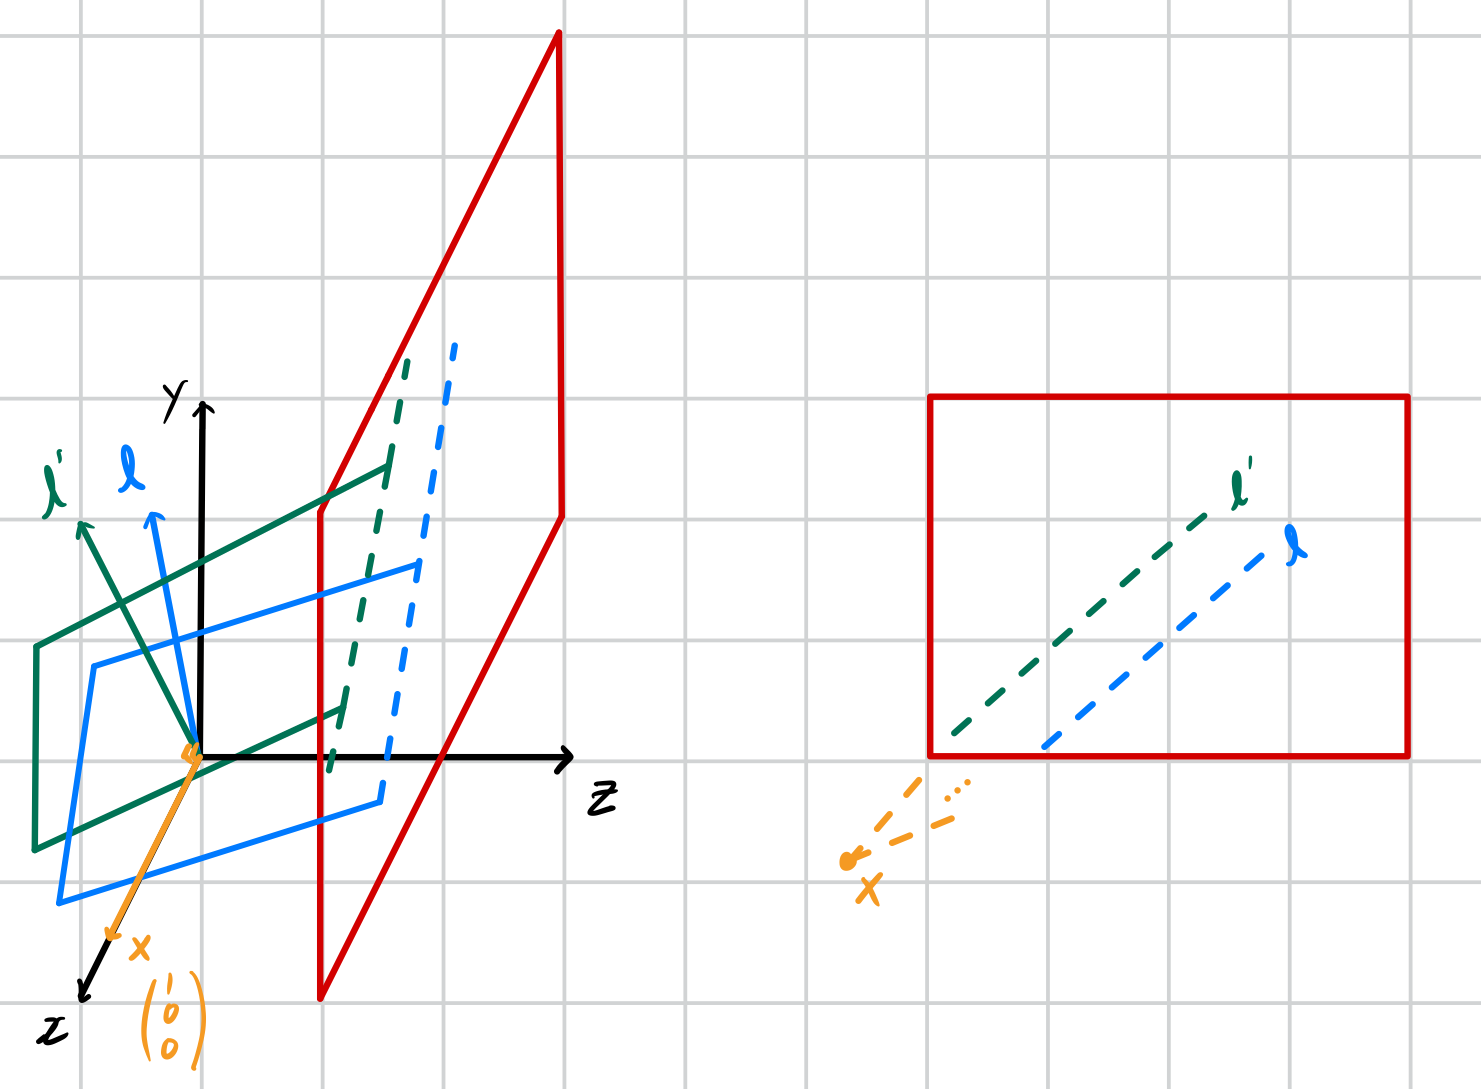
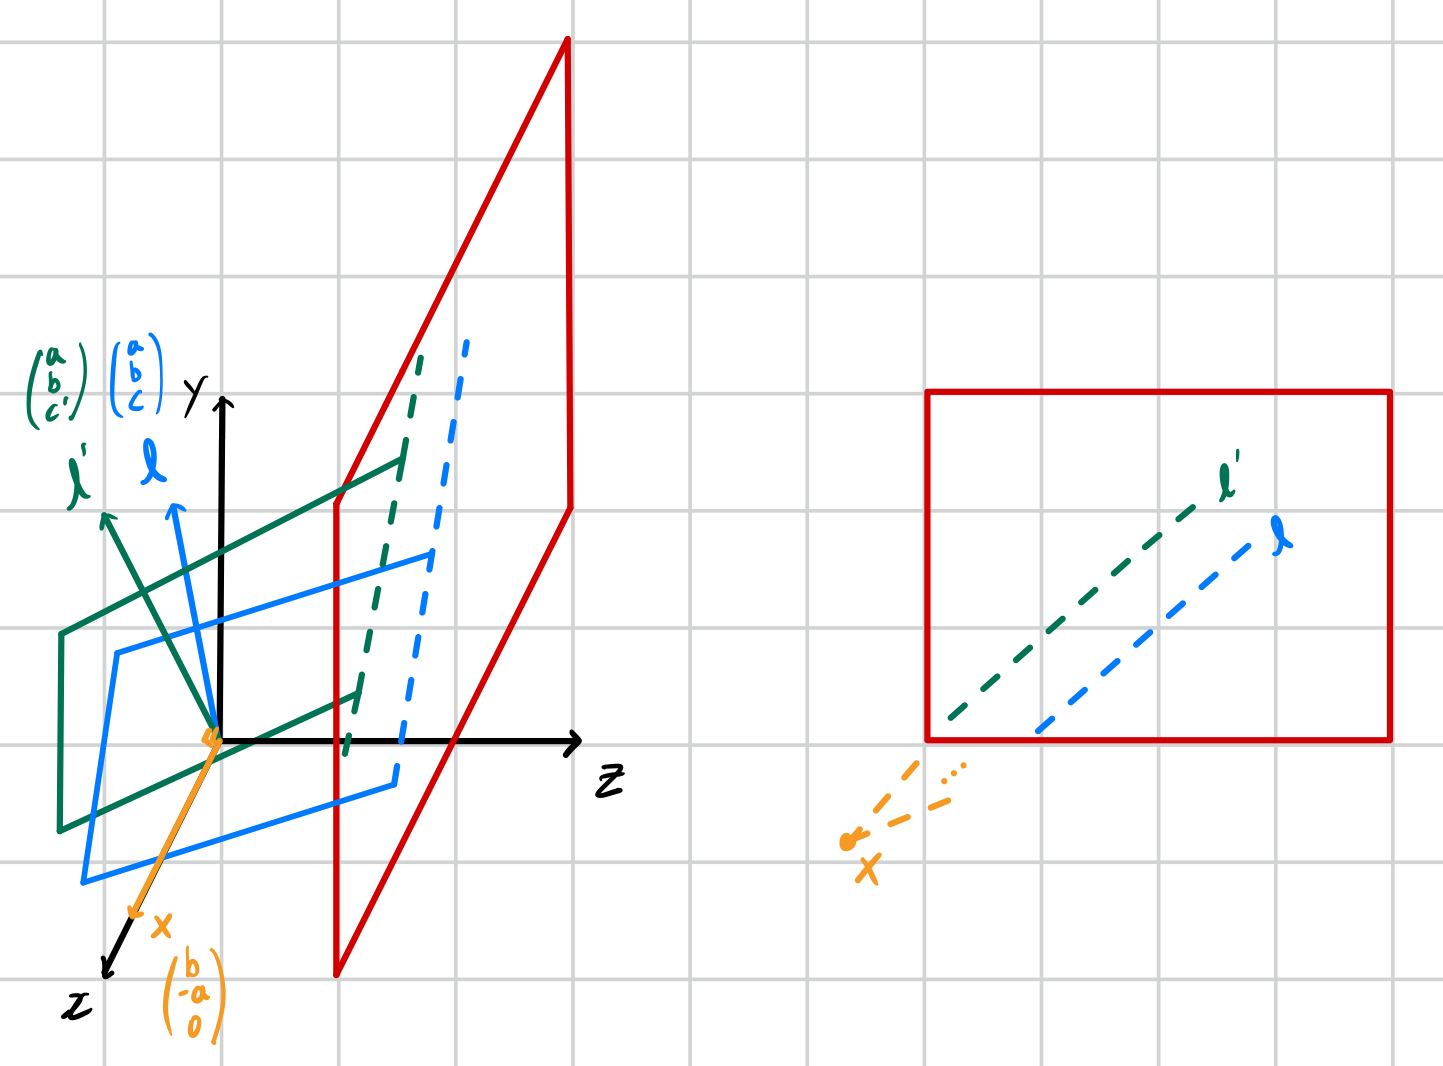
upate MVG

diff --git a/content/Machine Learning/Mathematical Foundation/Multiple View Geometry/2. Projective Geometry and Transformations of 2D.md b/content/Machine Learning/Mathematical Foundation/Multiple View Geometry/2. Projective Geometry and Transformations of 2D.md
@@ -49,6 +49,8 @@ $$
 이를 $\mathbb R^2$ 로 표현하면 $(x_1/x_3, x_2/x_3)^T$ 이고, \
 이를 projective plane $\mathbb P^2$ 로 표현하면 $(x_1/x_3, x_2/x_3, 1)^T$ 와 같다.
 
+> **Result 2.1** The point $\mathbf x$ lies on the line $\mathbf l$ if and only if $\mathbf x^T \mathbf l = 0$
+
 > [!Tips] Geometric analysis
 > Point와 line을 기하학적으로 해석해보면,
 > - Point $\mathbf x$ : 원점과 $\mathbf x$ 를 지나는 직선과 $z=1$ 의 intersection point.
@@ -56,8 +58,6 @@ $$
 > 
 > 	![[2.0.png|width500]]
 
-
-> **Result 2.1** The point $\mathbf x$ lies on the line $\mathbf l$ if and only if $\mathbf x^T \mathbf l = 0$
 
 **Intersection of lines** \
 Homogeneous coordinate의 두 line $\mathbf l = (a,b,c)^T$ 와 $\mathbf l' = (a',b',c')^T$ 의 intersection은 cross product로 구할 수 있다.
@@ -82,12 +82,87 @@ $c'-c$는 scale factor, scalar이므로 제외하고 생각해보면, point는 $
 이러한 관찰은 parallel line이 infinite point에서 만난다는 생각과 일치한다.
 
 이 point는 $z=0$ 평면상에 있는 point로 표현할 수 있다. \
-Homogeneous coordinate에서는 이 point를 "**ideal point**"라고 한다. 
-![[2.3.png|width500]]
+Homogeneous coordinate에서는 이 point를 "**ideal point**" 혹은 "**line at infinity**"라고 한다. 
 
+![[2.3.png|width500]] \
+서로 평행한 두 line의 vector를 xy평면에 projection 시키면, 한 직선인 것 처럼 보일 것이고, \
+ideal point $\mathbf x$ 는 projective plane의 line의 방향과 일치할 것이다. \
+![[2.4.png|width200]]
 
 **Ideal points and the line at infinity** \
-.
+위의 결과에 따라, ideal point는 $(x_1, x_2, 0)^T$ 으로 쓸 수 있다. \
+그렇다면, 이 point들을 모두 가지는 single line이 가지고 있다고 하면, $(0,0,1)(x_1, x_2, 0)^T=0$ 이므로,
+line vector가 $(0, 0, 1)^T$ 인 line이 될 것이다. \
+이 line $\mathbf l_\infty = (0, 0, 1)^T$ 를 "**line at infinity**"라고 한다.
+
+Line $\mathbf l=(a,b,c)^T$ 와 $\mathbf l_\infty=(0,0,1)^T$ 의 intersection을 cross product하여 구해보면, \
+ideal point $(b, -a, 0)^T$ 가 된다. \
+이는 모든 line과 line at infinity가 만나는 point는 ideal point가 되며, \
+ideal point는 line의 direction을 나타낸다는 것을 의미한다.
+
+Ideal point들의 집합을 line at infinity라고 볼 수 있으므로, \
+line at infinity는 projective plane 안의 line들의 direction들의 집합이라고 볼 수 있다. \
+![[2.5.png|width300]]
+
+**A model for the projective plane** \
+Projective plane의 모델에 대해 알기 쉽게 생각해보자.
+
+$\mathbb P^2$ 는 $\mathbb R^3$ 상의 origin을 지나는 ray의 집합으로 볼 수 있다.
+이 ray는 $\mathbb P^2$ 의 single point로 볼 수 있으며, ray와 $z=1$ 과의 intersection point일 것이다.
+이러한 관점에서, $\mathbb P^2$ 에서의 line은 origin을 지나는 한 plane이라고 볼 수 있다.
+이 plane과 $z=1$ 과의 line of intersection이 line을 의미한다. \
+![[2.6.png]]
+
+**Duality** \
+Point와 line의 역할이 서로 바뀌어도, 그들의 성질에 관한 명제들이 서로 대칭적으로 성립함을 이미 눈치챘을 것이다. \
+특히, 기본적인 incidence equation $\mathbf l^T\mathbf x=0$ 에서 line과 point의 위치를 바꾸어도 식이 성립하는데, \
+$\mathbf l^T\mathbf x=0$ 이 $\mathbf x^T\mathbf l=0$ 과 같으므로 line과 point의 위치가 바뀐 셈이다. \
+(기하학에서 “incidence”란 점과 직선이 서로 '만난다', 즉 어떤 점이 한 직선이나 평면 위에 놓여 있는 관계를 말한다.)
+
+마찬가지로, 두 line의 intersection과 두 point를 지나는 line에 관한 결과들도 본질적으로 동일하며, point와 line의 역할만 서로 바뀌어 있을 뿐이다. \
+이러한 대칭성을 일반화한 원리가 바로 **duality principle**이다.
+
+> **Result 2.6. Duality principle.** To any theorem of 2-dimensional projective geometry there corresponds a dual theorem, which may be derived by interchanging the roles of points and lines in the original theorem.
+
+### 2.2.3 Conics and dual conics
+Conic이란 plane에서 second-degree equation을 통해 설명되는 curve이다. \
+Euclidean geometry의 conic은 3가지의 type을 가진다. \
+-> generate: hyperbola, ellipse, parabola \
+-> degenerate: single line, two lines, circle \
+(degenerate conic에 대해서는 이후에 설명한다.) \
+이 세 가지 형태의 conic은 서로 다른 방향의 평면에 의해 생성되는 conic section으로 발생한다.
+
+먼저, inhomogeneous coordinate에서 정의되는 conic의 equation은 다음과 같이 2차 형식의 polynomial로 표현한다.
+$$
+ax^2+bxy+cy^2+dx+ey+f=0
+$$
+이를 $x \mapsto x_1/x_3, y \mapsto x_2/x_3$ 을 하는 "Homogenizing" 과정을 거치면,
+$$
+a{x_1}^2+bx_1x_2+c{x_2}^2+dx_1x_3+ex_2x_3+f{x_3}^2=0
+$$
+로 표현하며, 이를 coefficeient matrix $C$를 사용하는 matrix form으로 고치면,
+$$
+\mathbf x^TC\mathbf x = 0
+$$
+$$
+C = 
+\begin{bmatrix}
+a & b/2 & d/2 \\
+b/2 & c & e/2 \\
+d/2 & e/2 & f
+\end{bmatrix}
+$$
+로 표현한다.
+
+이 conic coefficient matrix는 point와 line의 homogeneous representation에서와 마찬가지로, matix 성분의 비율만이 중요하다. \
+즉, 위의 equation에 나타난 $C$ 에 0이 아닌 상수를 곱해도 아무런 영향을 미치지 않는다. \
+따라서 $C$ 는 conic의 homogeneous representation이다.
+
+Conic은 6개의 element들에서 scale을 빼서, 5의 dof를 가진다.
+
+**Five points define a conic**
+Conic이 unique하게 결정되기 위해서, 필요한 점의 갯수는 몇개일까? \
+Conic의 dof는 5이므로, 5개의 variable이 결정되어야 하므로, 5개의 equation이 필요하며, 이는 5개의 점으로 하나의 conic을 결정짓는 것을 의미한다.
 ## 2.3 Projective transformations
 
 ## 2.4 A hierarchy of transformations

diff --git a/content/Machine Learning/Mathematical Foundation/Multiple View Geometry/0. Multiple View Geometry.md b/content/Machine Learning/Mathematical Foundation/Multiple View Geometry/0. Multiple View Geometry.md
@@ -2,7 +2,7 @@
 title: Multiple View Geometry
 tags:
   - section
-draft: true
+draft: false
 ---
 The world is 3D, and vision systems capture only 2D images. \
 Understanding the projection of the 3D world into 2D images, and how to reverse this projection to recover the 3D structure of the scene, is one of the most important topics in the study of vision (both natural vision and computer vision). \
